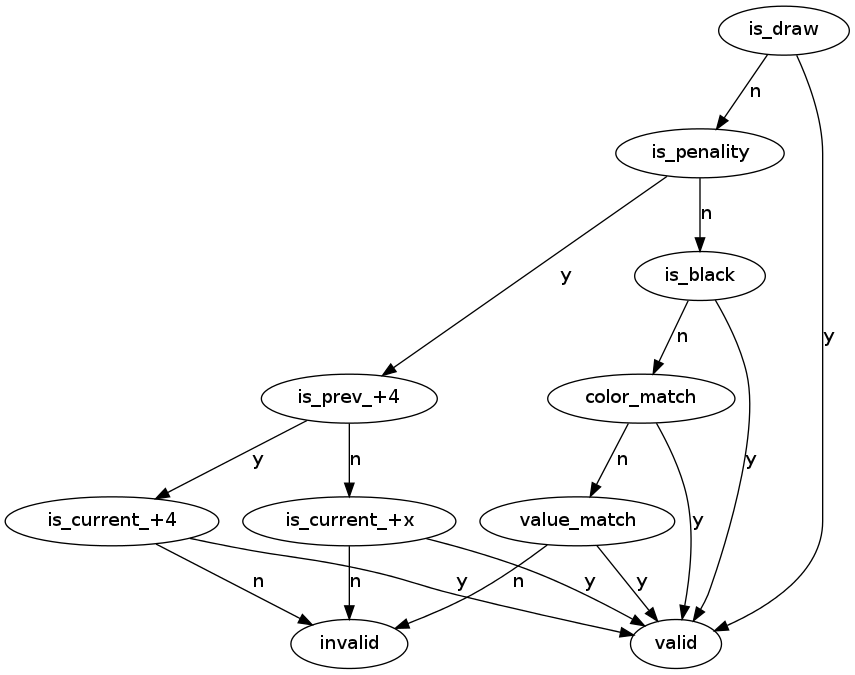
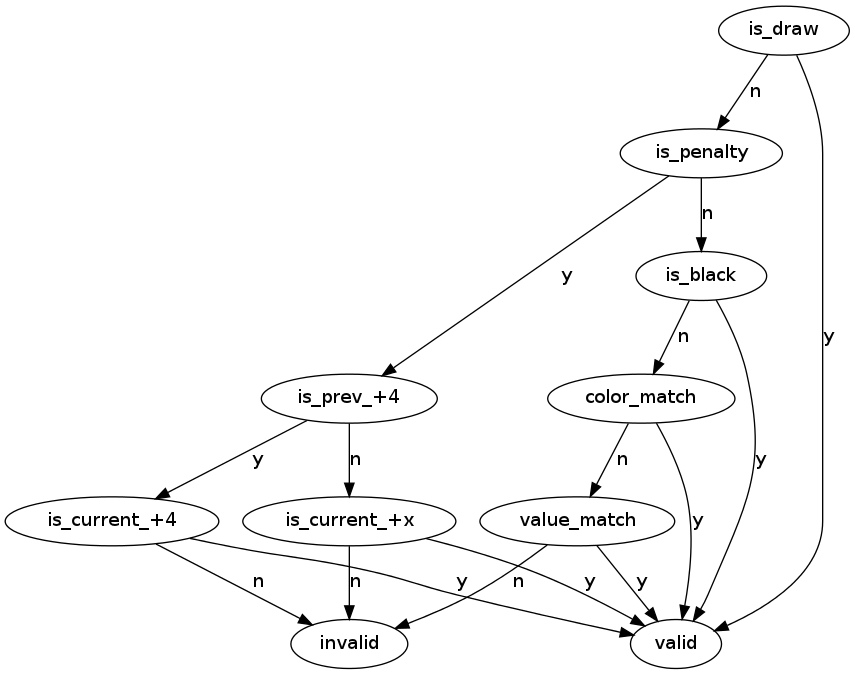
fixed global typo in penalty

diff --git a/src/uno/game/game.cc b/src/uno/game/game.cc
@@ -17,7 +17,7 @@ using ::Casino::Uno::Action::SimpleCard;
 
 UnoGame::UnoGame(int max_player_count)
 	:Game(max_player_count),
-	 current_penality(0),
+	 current_penalty(0),
 	 previous_nonblocked_player(NULL)
 {
 
@@ -89,20 +89,20 @@ void UnoGame::addCardToDeck(UnoCard *card) {
 	deck.addCard(card);
 }
 
-bool UnoGame::isPenality() {
-	return (current_penality > 0);
+bool UnoGame::isPenalty() {
+	return (current_penalty > 0);
 }
 
 void UnoGame::increasePenality(int addition) {
-	current_penality += addition;
+	current_penalty += addition;
 }
 
 void UnoGame::dealPenality(UnoPlayer* player) {
-	for (int i = 0; i < current_penality; i++) {
+	for (int i = 0; i < current_penalty; i++) {
 		dealCard(player);
 	}
 
-	current_penality = 0;
+	current_penalty = 0;
 }
 
 void UnoGame::dealCard(UnoPlayer* player) {
@@ -167,7 +167,7 @@ void UnoGame::initStart() {
 bool UnoGame::doesPlayerWin(UnoPlayer* player) {
 	return (player->isBlocked() == false)
 		&& (player->getCardCount() == 0)
-		&& (isPenality() == false);
+		&& (isPenalty() == false);
 }
 
 void UnoGame::start() {
@@ -208,8 +208,8 @@ void UnoGame::start() {
 				}
 			} else {
 				//it's a draw
-				//player draws the current penality or a single card
-				int card_count = (isPenality()) ? current_penality : 1;
+				//player draws the current penalty or a single card
+				int card_count = (isPenalty()) ? current_penalty : 1;
 				Event::draw_card event;
 				event.player = current_player;
 				event.card_count = card_count;
@@ -254,7 +254,7 @@ bool UnoGame::isValidMove(UnoAction* action, std::string &message) {
 
 	UnoCard *current = static_cast<UnoCard*>(action);
 
-	if (isPenality()) {
+	if (isPenalty()) {
 		if (deck.last_played_value == CARD_VALUE_PLUSFOUR) {
 			if (current->getValue() == CARD_VALUE_PLUSFOUR) {
 				return true;
@@ -313,7 +313,7 @@ void UnoGame::reverseTurn() {
 void UnoGame::drawCards() {
 	UnoPlayer *player = players.getCurrentPlayer();
 
-	if (isPenality()) {
+	if (isPenalty()) {
 		dealPenality(player);
 	} else {
 		dealCard(player);

diff --git a/test/uno/game/game.cc b/test/uno/game/game.cc
@@ -20,7 +20,7 @@ using ::testing::Return;
 using ::testing::DoAll;
 using ::testing::NiceMock;
 
-TEST(UnoGame, Penality) {
+TEST(UnoGame, Penalty) {
 	UnoGame game(1);
 	UnoPlayerMock player;
 	CardMock card_a, card_b;
@@ -29,14 +29,14 @@ TEST(UnoGame, Penality) {
 	game.addCardToDeck(&card_a);
 	game.addCardToDeck(&card_b);
 
-	// no penality as the game starts
-	ASSERT_FALSE(game.isPenality());
+	// no penalty as the game starts
+	ASSERT_FALSE(game.isPenalty());
 
-	// add some penality
+	// add some penalty
 	game.increasePenality(2);
 
-	// penality increased
-	ASSERT_TRUE(game.isPenality());
+	// penalty increased
+	ASSERT_TRUE(game.isPenalty());
 
 	// player gets cards
 	EXPECT_CALL(player, addAction(&card_a));
@@ -44,8 +44,8 @@ TEST(UnoGame, Penality) {
 
 	game.dealPenality(&player);
 
-	// after deal, no penality is present
-	ASSERT_FALSE(game.isPenality());
+	// after deal, no penalty is present
+	ASSERT_FALSE(game.isPenalty());
 }
 
 TEST(UnoGame, DealCard) {
@@ -347,7 +347,7 @@ TEST(UnoGame, Gameplay) {
 
 /**
  * If player with one gets blocked,
- * shouldn't get any penality
+ * shouldn't get any penalty
  * becouse of forgotten uno.
  *
  * @bug

diff --git a/src/uno/game/game.h b/src/uno/game/game.h
@@ -64,7 +64,7 @@ protected:
 		virtual ~ActionStack() {};
 	} deck;
 
-	int current_penality;
+	int current_penalty;
 	Draw draw_action;
 
 	UnoPlayer* previous_nonblocked_player;
@@ -79,7 +79,7 @@ public:
 	UnoGame(int max_player_count);
 	virtual void joinPlayer(UnoPlayer *player);
 	void addCardToDeck(UnoCard *card);
-	bool isPenality();
+	bool isPenalty();
 	void increasePenality(int addition);
 	void dealPenality(UnoPlayer* player);
 	void dealCard(UnoPlayer* player);
